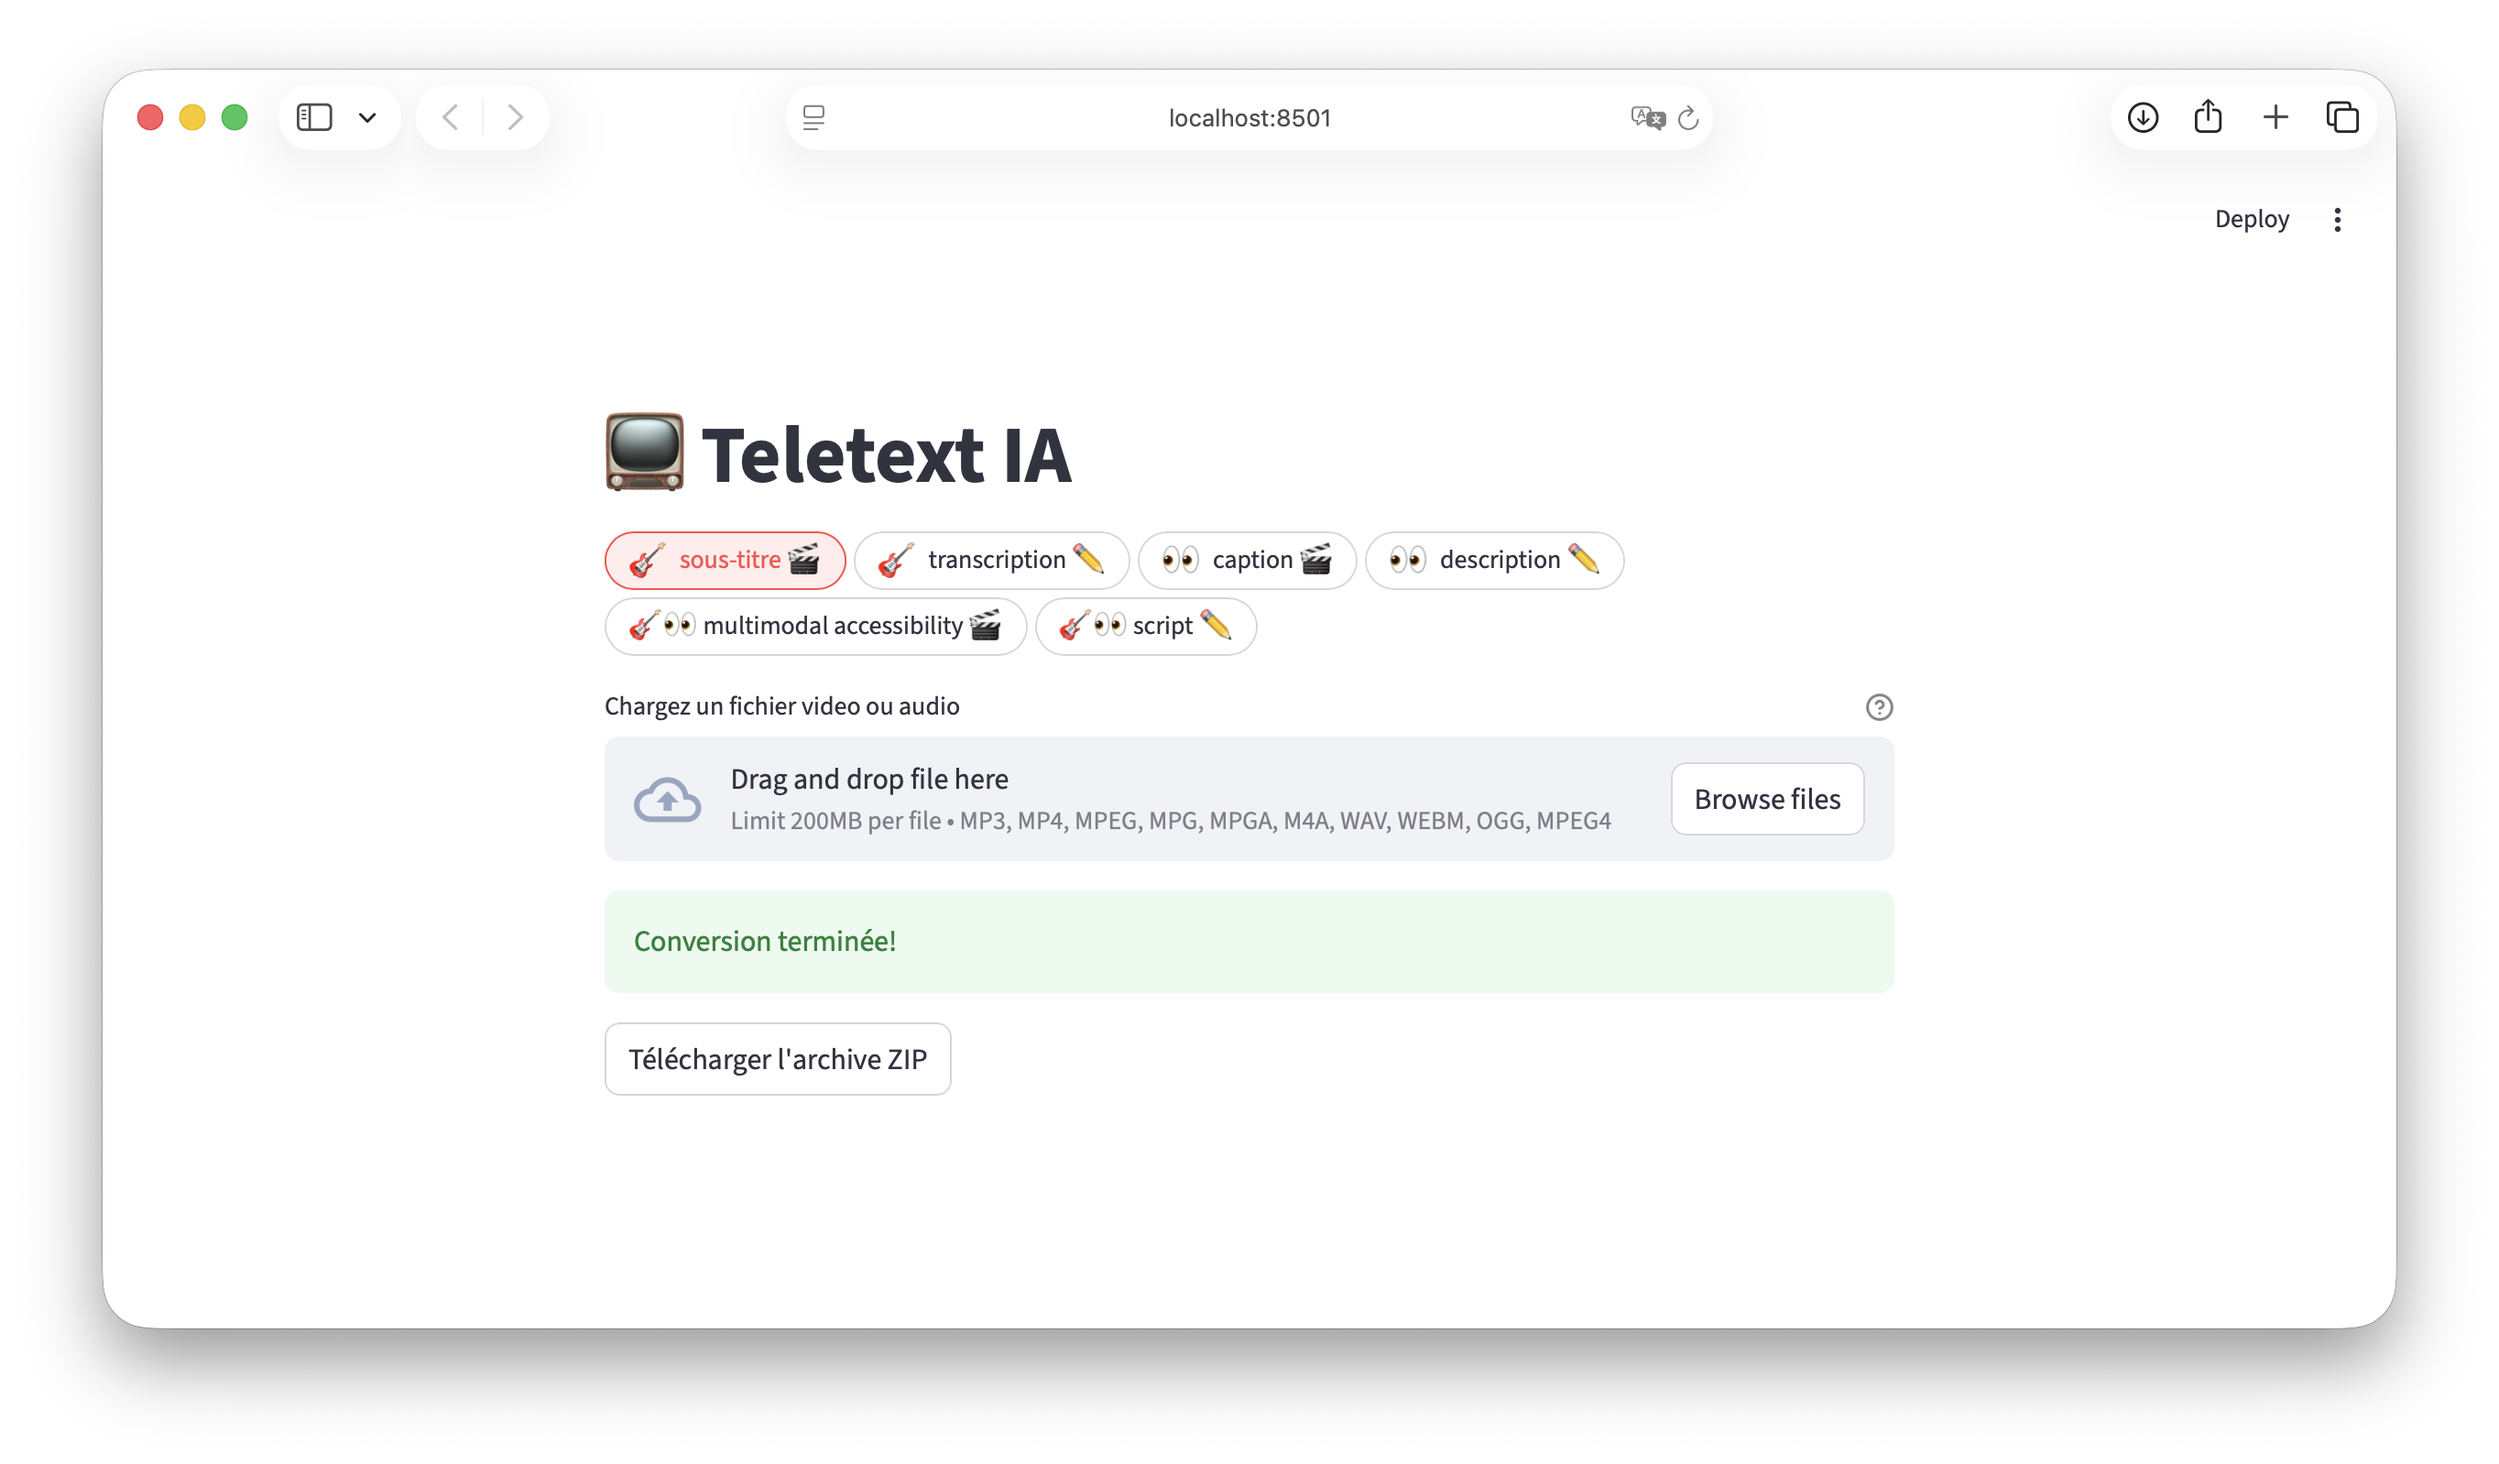
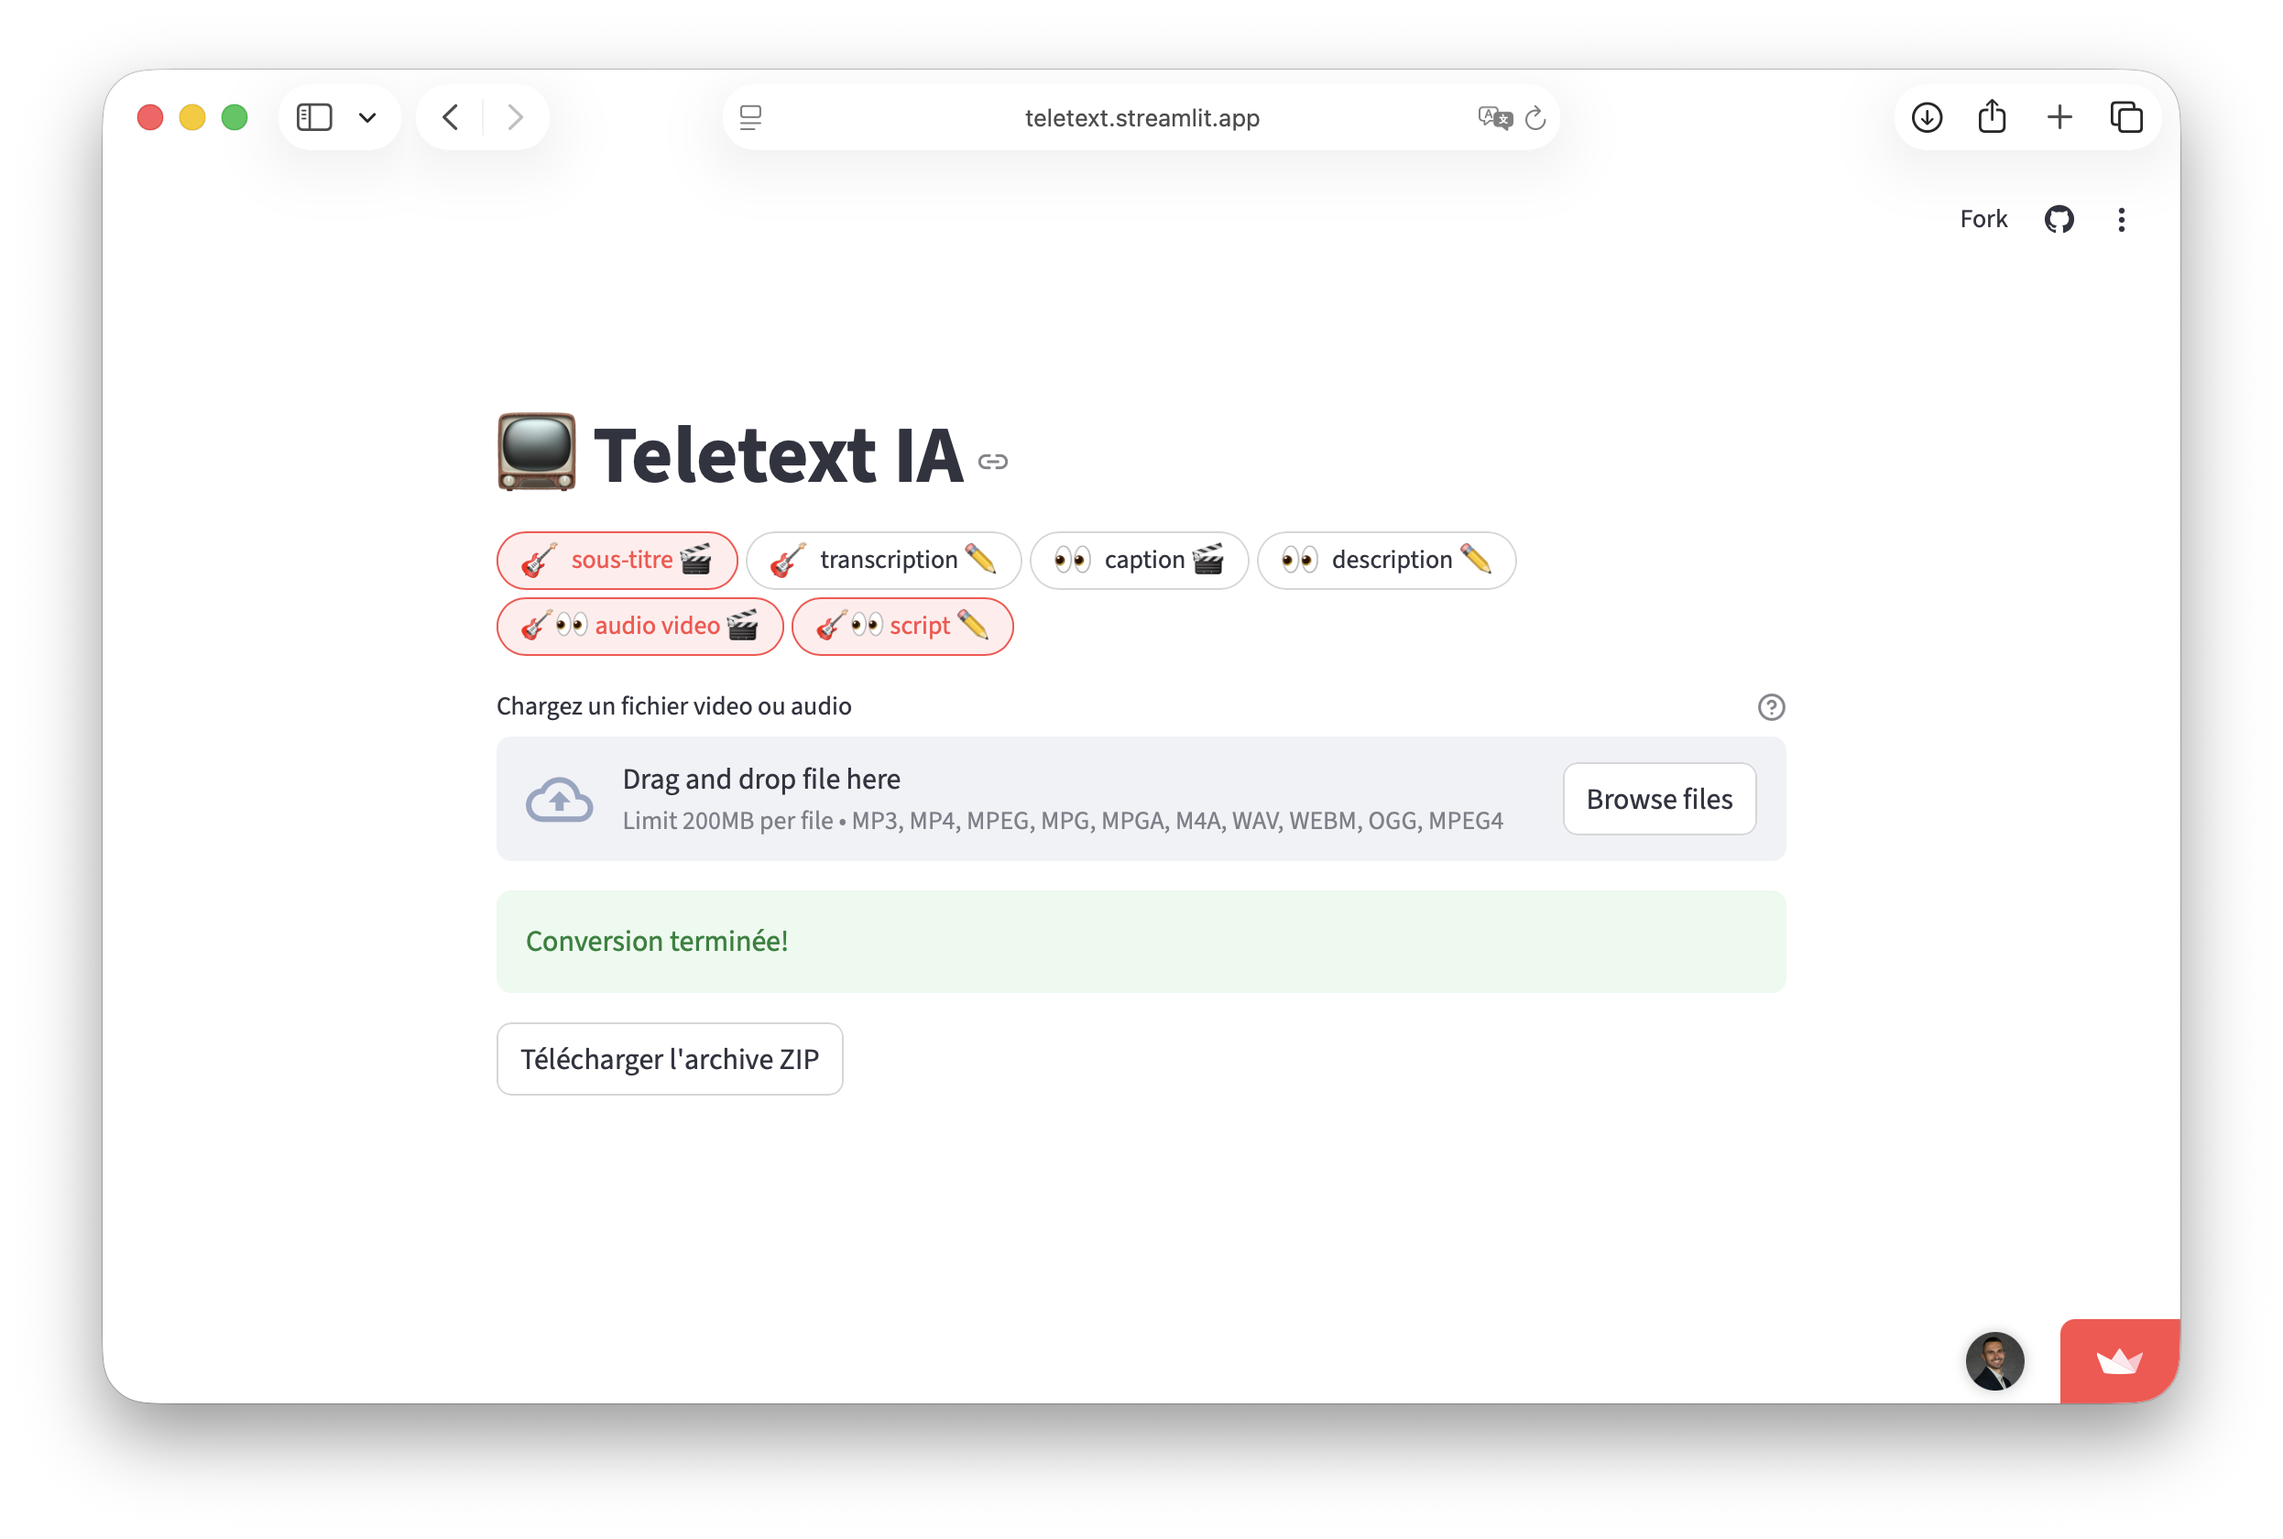
Presentation updated

diff --git a/README.md b/README.md
@@ -1,5 +1,8 @@
 # Teletext IA
 
+This API is hosted on Streamlit Community Cloud and is accessible at the following address:
+- [teletext.streamlit.app](https://teletext.streamlit.app)
+
 ## Description
 
 Teletext IA is an experimental project for improving video/audio accessibility with AI.
